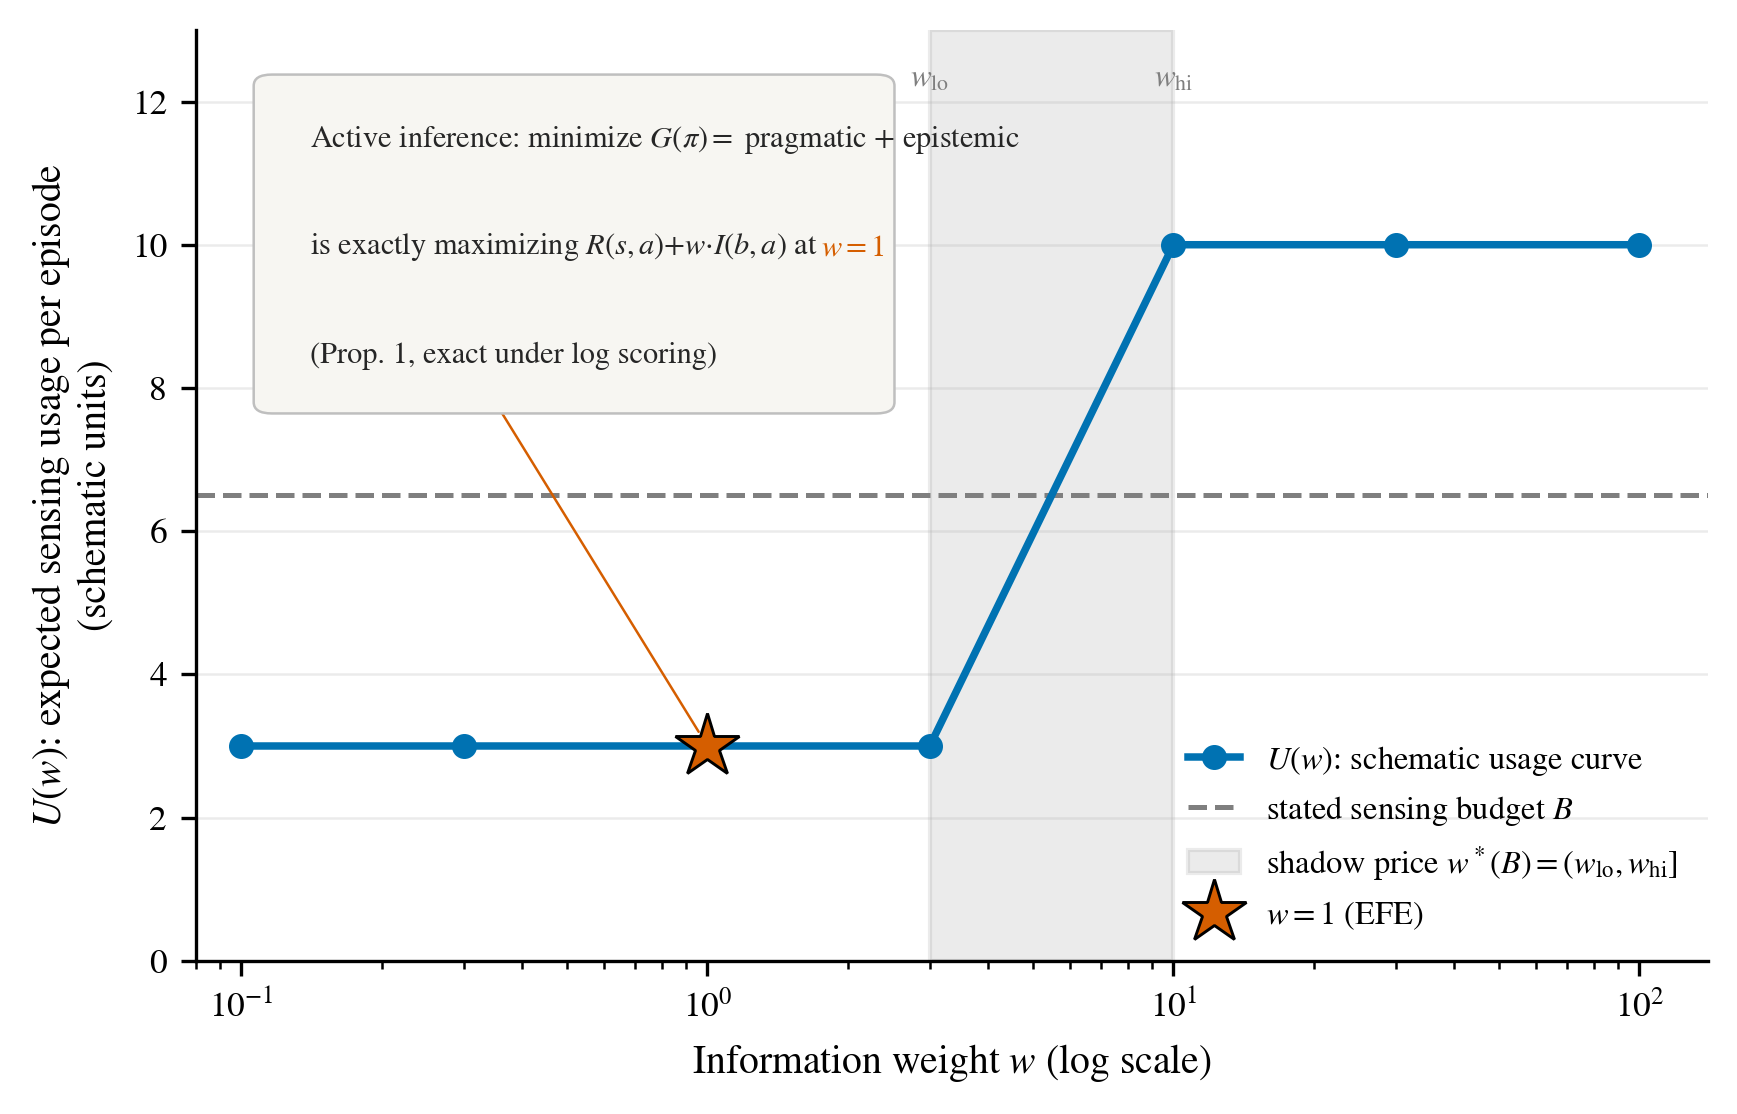
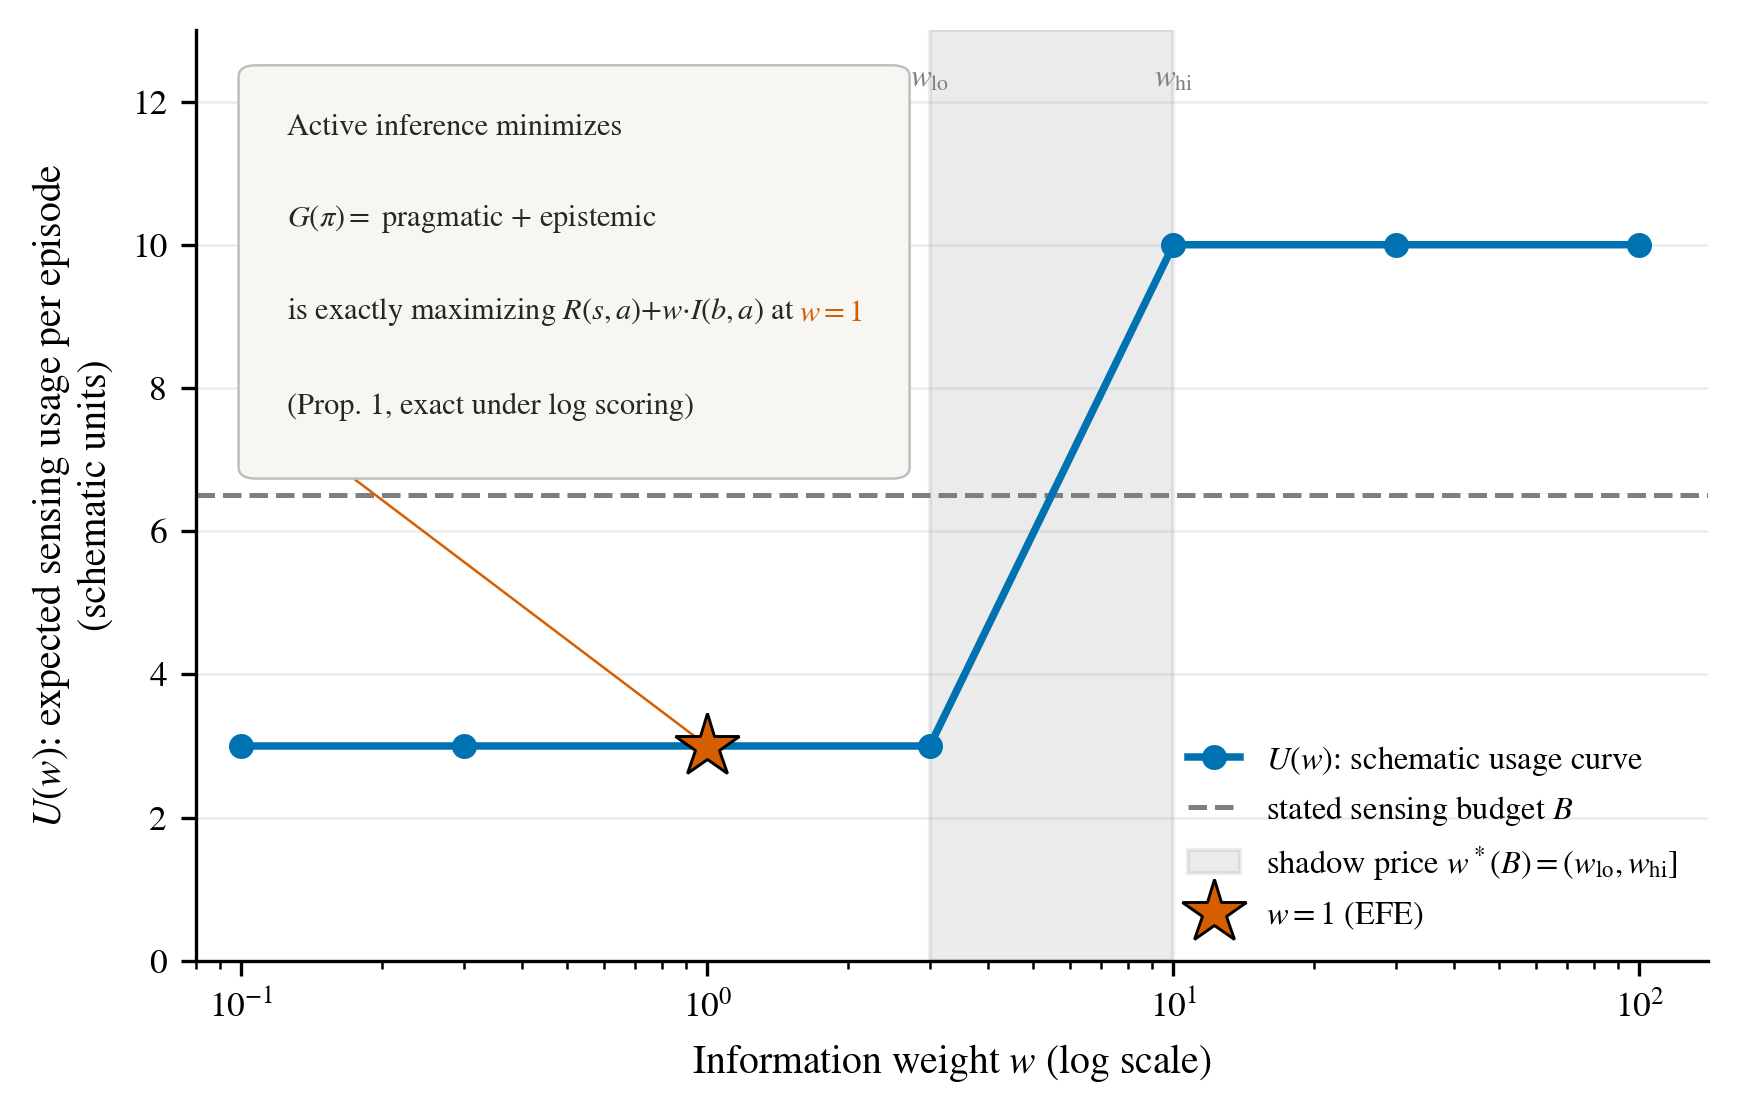
Fix hero figure callout box overflowing its own border
Pat reported the "pragmatic + epistemic" text clipping out of the
figure. The box width had been chosen by eye from a standalone PNG and
a compiled-PDF check that both happened to view it at a scale where a
real overflow wasn't obvious. A tight crop at full resolution showed
line 1 running past the box's rounded border into open whitespace
toward the shaded bracket: measured with matplotlib's own text-extent
API, that line was 0.473 axes-fraction wide against a 0.40-wide box.

Fixed by measuring every candidate line's actual rendered width before
choosing geometry (rather than eyeballing again), splitting the
callout across four shorter lines instead of three longer ones, and
widening the box slightly. Added a hard RuntimeError check inside the
producer's own text-drawing helper that fails the build if any future
line overflows its box, so this can't silently ship again. Verified at
print resolution inside the recompiled PDF.

Both manuscripts rebuild clean, 471/471 tests.

diff --git a/experiments/build_fig_hero.py b/experiments/build_fig_hero.py
@@ -36,14 +36,18 @@ from matplotlib.patches import FancyBboxPatch
 from rho_aif import figstyle
 
 
-def _rainbow_text(ax, fig, x, y, fragments, fontsize=7.5, va="bottom"):
+def _rainbow_text(ax, fig, x, y, fragments, fontsize=7.5, va="bottom",
+                   right_limit=None, line_name=""):
     """Draw left-to-right text fragments [(text, color), ...] starting at
     (x, y) in axes-fraction coordinates, each fragment colored separately.
 
     Matplotlib cannot color a substring within one mathtext string, so each
     fragment is its own Text artist, placed by measuring the previous
     fragment's actual rendered width (the standard "rainbow text" recipe)
-    rather than by guessing pixel offsets.
+    rather than by guessing pixel offsets. If right_limit is given, raise
+    rather than silently ship a line that overflows it: a first version of
+    this figure placed an unmeasured line into a too-narrow box and the
+    text ran out past the box's own border into the plot next to it.
     """
     renderer = fig.canvas.get_renderer()
     for text, color in fragments:
@@ -53,6 +57,10 @@ def _rainbow_text(ax, fig, x, y, fragments, fontsize=7.5, va="bottom"):
         bbox_axes = t.get_window_extent(renderer=renderer).transformed(
             ax.transAxes.inverted())
         x = bbox_axes.x1
+    if right_limit is not None and x > right_limit:
+        raise RuntimeError(
+            f"hero figure callout line {line_name!r} overflows its box: "
+            f"ends at axes-fraction x={x:.4f}, limit is {right_limit:.4f}")
 
 
 def plot_hero(path: str = "figures/fig_hero_price_curve.pdf") -> None:
@@ -101,17 +109,21 @@ def plot_hero(path: str = "figures/fig_hero_price_curve.pdf") -> None:
     figstyle.style_axis(ax)
     ax.legend(loc="lower right", fontsize=7.8, handlelength=1.6)
 
-    # Leader line from the star into the empty upper-left quadrant (the
-    # curve sits flat and low there), landing on the boxed equivalence
-    # aside. No text yet: matplotlib's annotate bbox cannot mix colors
-    # within one string, so the box and its two-color text are drawn
-    # separately below.
-    # Right edge kept left of w_lo=3 (axes-fraction ~0.485 on this log axis)
-    # so the box never overlaps the shaded bracket.
-    box_xy = (0.05, 0.60)
-    box_wh = (0.40, 0.34)
+    # Leader line from the star up to the box's bottom-left corner (short,
+    # and never crosses the box's own text). No text yet: matplotlib's
+    # annotate bbox cannot mix colors within one string, so the box and its
+    # two-color text are drawn separately below.
+    # Right edge kept left of w_lo=3 (axes-fraction ~0.485 on this log axis,
+    # measured, not guessed) so the box never overlaps the shaded bracket,
+    # with a safety margin because a first version of this box was measured
+    # too narrow for its own longest line and the text ran out past the
+    # border (caught on inspection of the compiled PDF, not the standalone
+    # PNG, which happened to hide it at thumbnail scale).
+    box_xy = (0.04, 0.53)
+    box_wh = (0.42, 0.42)
+    box_right = box_xy[0] + box_wh[0]
     ax.annotate("", xy=(1, 3), xycoords="data",
-                xytext=(box_xy[0] + 0.03, box_xy[1] + box_wh[1] - 0.03),
+                xytext=(box_xy[0] + 0.03, box_xy[1] + 0.03),
                 textcoords="axes fraction",
                 arrowprops=dict(arrowstyle="-", lw=0.6,
                                 color=figstyle.AGENT_COLORS["EFE"],
@@ -122,19 +134,22 @@ def plot_hero(path: str = "figures/fig_hero_price_curve.pdf") -> None:
         boxstyle="round,pad=0.012", facecolor="#F7F6F2",
         edgecolor="0.75", linewidth=0.6, zorder=6))
 
-    pad_x, top_y = box_xy[0] + 0.025, box_xy[1] + box_wh[1] - 0.075
-    line_h = 0.115
+    pad_x, top_y = box_xy[0] + 0.02, box_xy[1] + box_wh[1] - 0.07
+    line_h = 0.10
+    fs = 7.3
     _rainbow_text(ax, fig, pad_x, top_y, [
-        ("Active inference: minimize $G(\\pi)=$ pragmatic $+$ epistemic",
-         "0.15"),
-    ], fontsize=7.3)
+        ("Active inference minimizes", "0.15"),
+    ], fontsize=fs, right_limit=box_right - 0.01, line_name="line 1")
     _rainbow_text(ax, fig, pad_x, top_y - line_h, [
+        ("$G(\\pi){=}$ pragmatic $+$ epistemic", "0.15"),
+    ], fontsize=fs, right_limit=box_right - 0.01, line_name="line 2")
+    _rainbow_text(ax, fig, pad_x, top_y - 2 * line_h, [
         ("is exactly maximizing $R(s,a){+}w{\\cdot}I(b,a)$ at ", "0.15"),
         ("$w{=}1$", figstyle.AGENT_COLORS["EFE"]),
-    ], fontsize=7.3)
-    _rainbow_text(ax, fig, pad_x, top_y - 2 * line_h, [
+    ], fontsize=fs, right_limit=box_right - 0.01, line_name="line 3")
+    _rainbow_text(ax, fig, pad_x, top_y - 3 * line_h, [
         ("(Prop. 1, exact under log scoring)", "0.15"),
-    ], fontsize=7.3)
+    ], fontsize=fs, right_limit=box_right - 0.01, line_name="line 4")
 
     fig.savefig(path)
     fig.savefig(path.replace(".pdf", ".png"))

diff --git a/Guidance_Documents/full_paper_plan.md b/Guidance_Documents/full_paper_plan.md
@@ -1112,6 +1112,8 @@ Built as `experiments/build_fig_hero.py`, a schematic (no episodes run, no CSV r
 
 Inserted as the new Figure 1 in both manuscripts, immediately after the Introduction's AIF/EFE paragraph and before the itemized contributions list (the placement all three design concepts converged on independently, since the figure's vocabulary spans both the budget paragraph before it and the AIF paragraph immediately preceding it). All later figures renumbered automatically via existing `\ref` labels, confirmed by grep that no figure is ever referenced by a hardcoded numeral in either manuscript's prose. Propagated identically to `full_paper.tex` (caption only, no `\Description`, per the standing JAIR-only accessibility-block rule). Both manuscripts rebuild clean (JAIR 82 pp, LNCS unaffected in relative structure though its own `llncs` class runs to 105 pp for unrelated reasons of column width), `verify_claims.py` clean, 471/471 tests (unaffected, since this figure adds no experiment code).
 
+**Correction, same day**: Pat reported the callout box's text ("pragmatic + epistemic") clipping out of the figure. The box's width had been chosen by inspection of the standalone PNG and the compiled PDF at what turned out to be a thumbnail-scale view where a real overflow was not visually obvious; a tight crop around the box at full resolution showed the line-1 text running past the box's own rounded border, out into open whitespace toward the shaded bracket. Measured the actual rendered width of every candidate line with matplotlib's own text-extent API rather than eyeballing a second time (`t.get_window_extent()` transformed into axes-fraction units, the same measurement the rainbow-text helper already used internally but never checked against the box bounds it was drawn into). The original single long line ("Active inference: minimize G(pi)= pragmatic + epistemic") measured 0.473 axes-fraction wide against a 0.40-wide box, a real, sizable overflow, not a rounding-error miss. Fixed by splitting the callout across four shorter lines instead of three longer ones and widening the box slightly, verified against the same measurement (longest line 0.383, box interior 0.40, comfortable margin), and added a hard `RuntimeError` check inside the producer's own text-drawing helper that fails the build if any future line overflows its box, rather than relying on visual inspection catching it again. Re-verified at print resolution inside the recompiled PDF, both a tight crop of the box and the full page. Both manuscripts rebuild clean, 471/471 tests.
+
 **State**: HEAD (this commit).
 
 ### 9.17.7 Bibliography hallucination audit for JAIR submission (2026-08-27)
